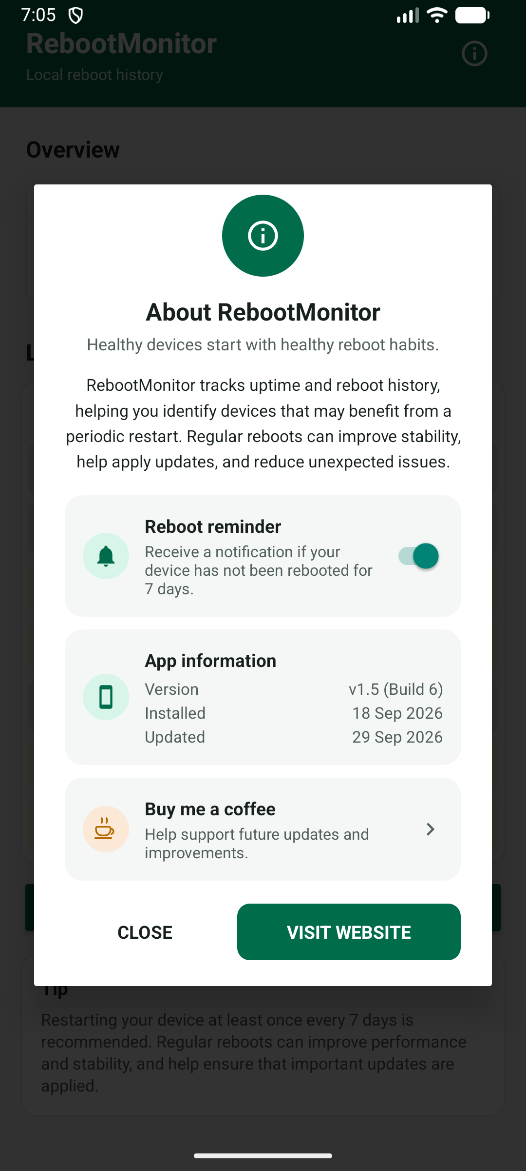
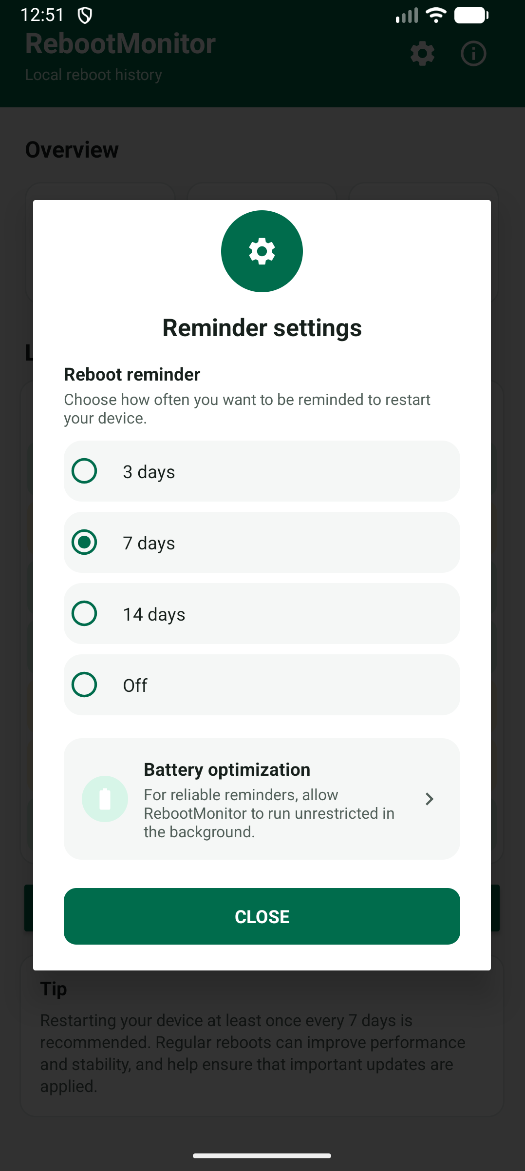
Add files via upload

diff --git a/index.html b/index.html
@@ -101,7 +101,7 @@
 <div class="card feature"><svg class="icon" aria-hidden="true"><use href="#i-power"/></svg><h3>Automatic Detection</h3><p>Automatically detects device reboots and validates uptime.</p></div>
 <div class="card feature"><svg class="icon" aria-hidden="true"><use href="#i-clock"/></svg><h3>Dashboard</h3><p>Current uptime, latest reboot and reboot statistics.</p></div>
 <div class="card feature"><svg class="icon" aria-hidden="true"><use href="#i-calendar"/></svg><h3>History &amp; Heatmap</h3><p>Explore reboot activity through an interactive heatmap and detailed historical views, making it easy to identify trends and reboot patterns over time.</p></div>
-<div class="card feature"><svg class="icon" aria-hidden="true"><use href="#i-bell"/></svg><h3>Reminders</h3><p>Optional reminder after 7 days without a reboot.</p></div>
+<div class="card feature"><svg class="icon" aria-hidden="true"><use href="#i-bell"/></svg><h3>Reminders</h3><p>Optional reminder when a reboot is overdue. 7 days is recommended and selected by default, with 3 or 14 days and off also available. A built-in shortcut to battery optimization settings helps keep reminders reliable.</p></div>
 <div class="card feature"><svg class="icon" aria-hidden="true"><use href="#i-ban"/></svg><h3>100% Ad-Free</h3><p>Completely free from advertisements, pop-ups and intrusive tracking.</p></div>
 </section>
 
@@ -114,9 +114,9 @@
 <section class="card" aria-labelledby="screenshots">
 <h2 id="screenshots">Screenshots</h2>
 <div class="screens">
-<picture><source srcset="screenshot1.webp" type="image/webp"><img src="screenshot1.png" width="525" height="1171" alt="RebootMonitor dashboard showing status, current uptime, days with reboots and the reboot times of the last 7 days" loading="lazy" decoding="async"></picture>
-<picture><source srcset="screenshot2.webp" type="image/webp"><img src="screenshot2.png" width="526" height="1169" alt="RebootMonitor reboot history with summary, monthly calendar heatmap of reboots per day and monthly overview" loading="lazy" decoding="async"></picture>
-<picture><source srcset="screenshot3.webp" type="image/webp"><img src="screenshot3.png" width="526" height="1171" alt="RebootMonitor information dialog with app version, install and update dates, reboot reminder toggle, support link and website link" loading="lazy" decoding="async"></picture>
+<picture><source srcset="screenshot1.webp" type="image/webp"><img src="screenshot1.png" width="525" height="1170" alt="RebootMonitor dashboard showing status, current uptime, days with reboots and the reboot times of the last 7 days" loading="lazy" decoding="async"></picture>
+<picture><source srcset="screenshot2.webp" type="image/webp"><img src="screenshot2.png" width="525" height="1169" alt="RebootMonitor reboot history with summary, monthly calendar heatmap of reboots per day and monthly overview" loading="lazy" decoding="async"></picture>
+<picture><source srcset="screenshot3.webp" type="image/webp"><img src="screenshot3.png" width="525" height="1171" alt="RebootMonitor reminder settings with a configurable reboot reminder (3, 7 or 14 days, or off) and a battery optimization shortcut for reliable delivery" loading="lazy" decoding="async"></picture>
 </div>
 </section>
 
@@ -149,7 +149,7 @@
 <section class="card" aria-labelledby="mdm">
 <h2 id="mdm">Built for Shared Devices and MDM Environments</h2>
 <p>RebootMonitor is designed specifically for shared Android devices managed through Mobile Device Management (MDM) solutions such as Microsoft Intune. The app provides users with a simple way to see when a device was last restarted, helping ensure devices remain reliable, secure and compliant with organizational policies.</p>
-<p>Users can also receive a configurable reminder when a device has not been restarted in the last seven days. By encouraging regular reboots, RebootMonitor helps improve device performance, stability and overall user experience in enterprise environments.</p>
+<p>Users can also receive a reminder when a device has not been restarted recently. 7 days is the recommended default, and the interval can be adjusted to 3 or 14 days, or turned off entirely. A quick shortcut to the device's battery optimization settings is included, so reminders keep working reliably in the background. By encouraging regular reboots, RebootMonitor helps improve device performance, stability and overall user experience in enterprise environments.</p>
 <p>That said, RebootMonitor is just as valuable for personal use. Even outside enterprise environments, it gives everyday users a simple, at-a-glance way to check their device's restart history, making it easy to stay on top of performance and reliability at home too.</p>
 </section>
 
